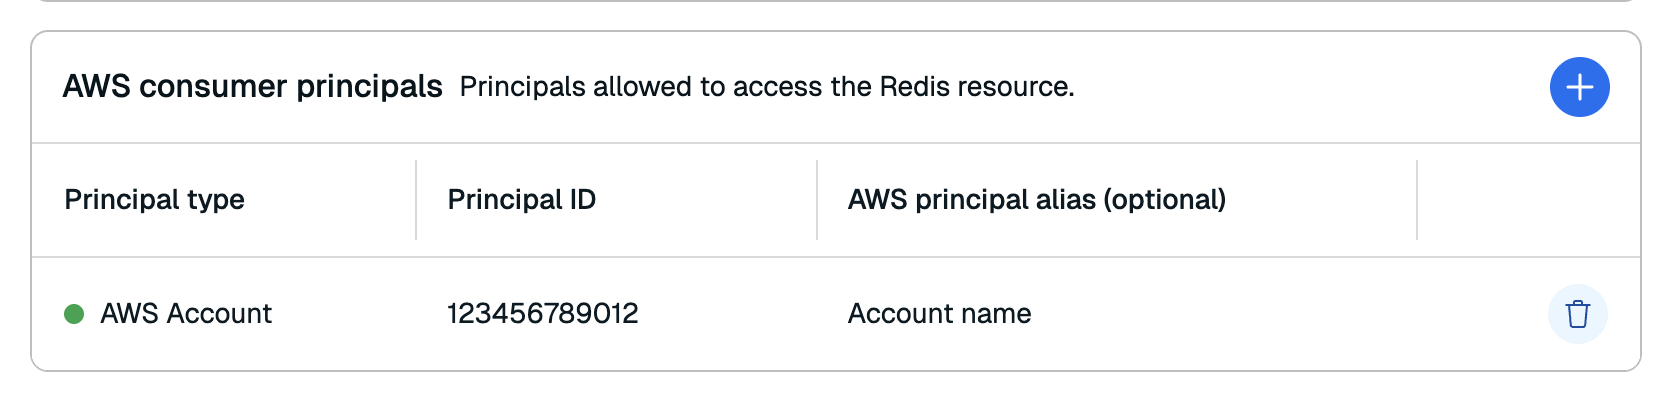
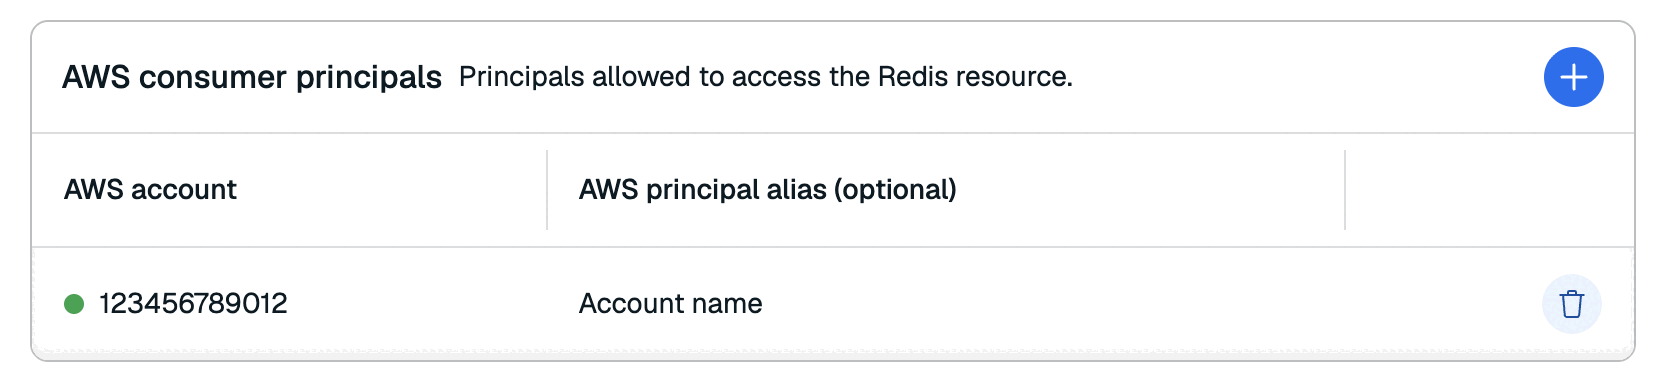
RC: Change PrivateLink screenshots for GA

diff --git a/content/operate/rc/security/aws-privatelink.md b/content/operate/rc/security/aws-privatelink.md
@@ -24,6 +24,8 @@ AWS PrivateLink provides the following benefits:
 - **Network Flexibility**: PrivateLink enables cross-account and cross-VPC connectivity and can be configured even when the Redis Cloud VPC and your consumer VPC have overlapping CIDR/IP ranges.
 - **Simplified architecture and low latency**: PrivateLink does not require NAT, internet gateways, or VPNs. It provides simplified network routing, without the need for a network load balancer between the application and the Redis database.
 
+See [Connecting to Redis Cloud with AWS PrivateLink vs. VPC Peering](https://redis.io/blog/connecting-to-redis-cloud-with-aws-privatelink-vs-vpc-peering/) to learn more about the benefits of using AWS PrivateLink to connect to Redis Cloud.
+
 {{< video-link >}}
 See [Connect to Redis Cloud with AWS PrivateLink](https://www.youtube.com/watch?v=i3aTmcyFihY) for a short video tutorial on how to connect to Redis Cloud with AWS PrivateLink.
 {{< /video-link >}}
@@ -72,7 +74,7 @@ In this step, you will associate the Redis Cloud resource share with an AWS Acco
 
 1. From the [Redis Cloud console](https://cloud.redis.io/), select the **Subscriptions** menu and then select your subscription from the list.
 
-1. Select **Connectivity > PrivateLink** to view the PrivateLink settings.
+1. Select **Connectivity > PrivateLink** to view the PrivateLink settings. If you haven't set up AWS PrivateLink before, select **Set up PrivateLink**. 
 
 1. In the **Resource Share** section, select **Manage Principals** to open the **Manage Principals** window.
 